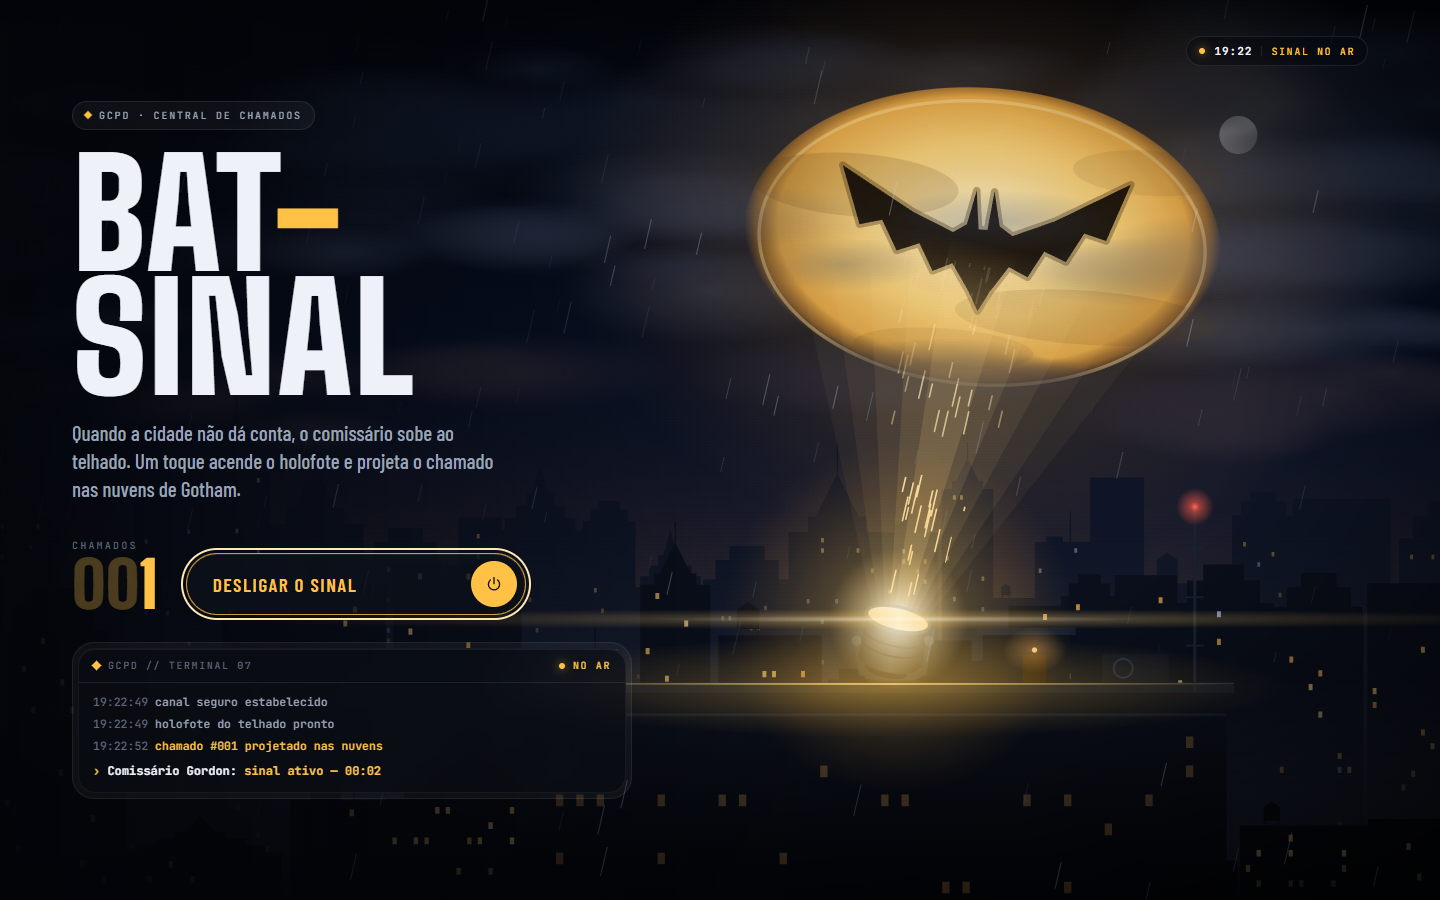
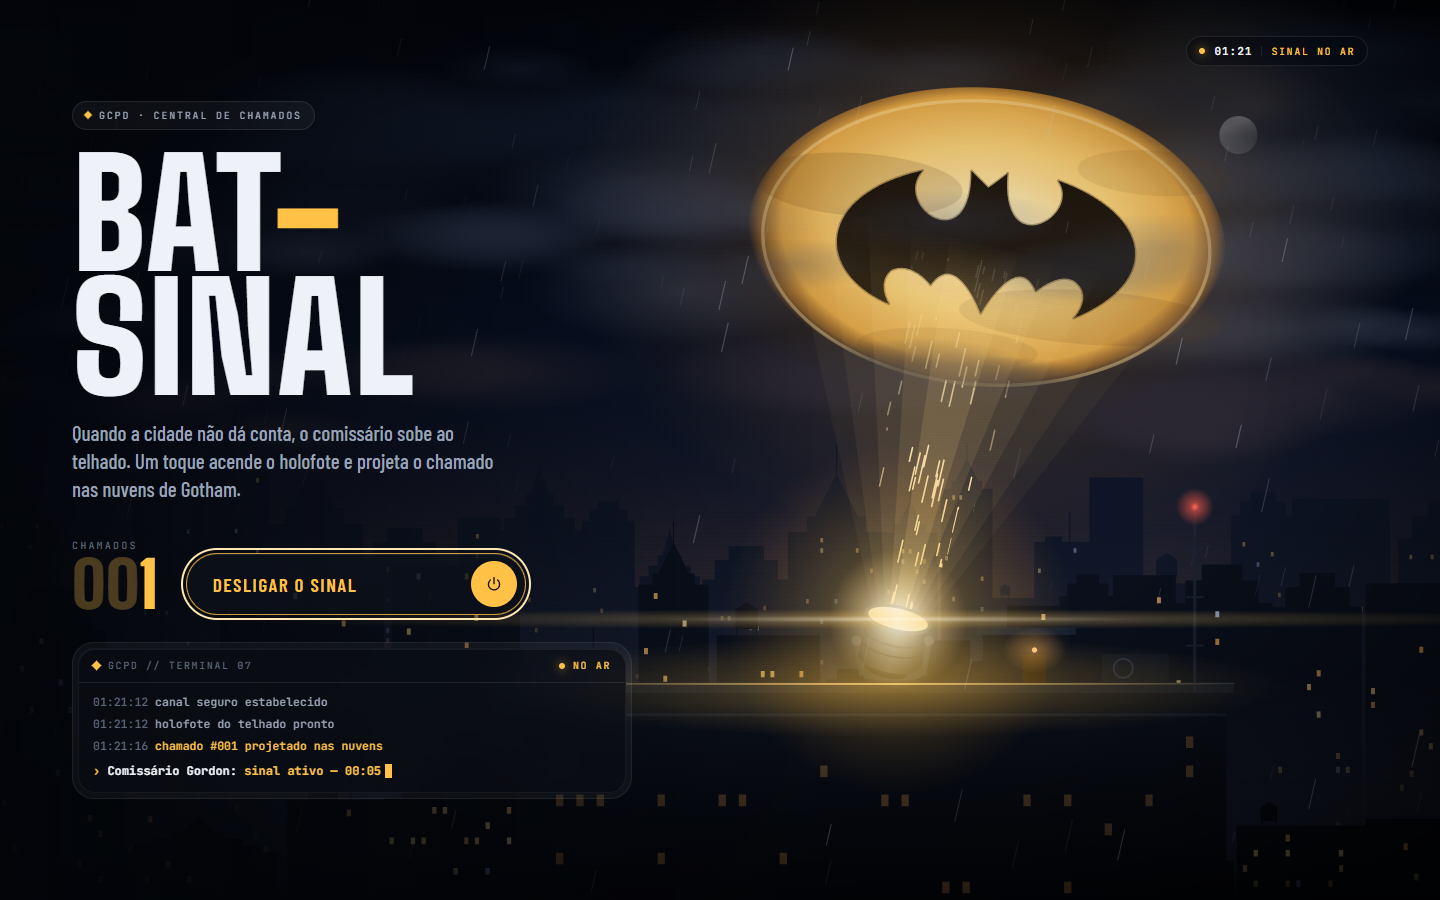
Troca o morcego projetado pelo símbolo clássico do Bat-Sinal

diff --git a/src/components/scene/batSymbol.ts b/src/components/scene/batSymbol.ts
@@ -1,28 +1,13 @@
-const RIGHT_WING: readonly (readonly [number, number])[] = [
-  [100, 43],
-  [103, 43],
-  [106, 17],
-  [111, 40],
-  [120, 46],
-  [148, 34],
-  [197, 6],
-  [183, 45],
-  [168, 41],
-  [157, 61],
-  [142, 55],
-  [132, 73],
-  [119, 67],
-  [107, 85],
-  [100, 98],
-];
+const RAW_PATH =
+  'M30.555 23.53c0 0.062 1.951-2.357 0.39-3.981-1.874-2.124-5.116 1.056-5.116 1.056-2.562-5.059-6.424 3.145-6.424 3.145s-3.348-7.731-6.221-3.047c0.062 0-2.383-2.793-4.819-1.481-1.749 1.749 0 4.091 0 4.091-9.119-3.186-9.712-12.492 2.952-16.286-3.576 4.481 6.59 10.649 5.84-0.344l2.155 1.89c0 0 2.171-1.796 2.171-1.921-0.25 10.993 9.369 4.544 6.121 0.484 11.429 3.308 13.381 11.21 2.951 16.394z';
 
-const LEFT_WING = RIGHT_WING.slice(1, -1)
-  .reverse()
-  .map(([x, y]) => [200 - x, y] as const);
+const SCALE = 5.5974;
+const OFFSET = { x: 1.6483, y: 6.652 };
 
 export const BAT_SYMBOL = {
   width: 200,
-  height: 100,
-  center: { x: 100, y: 52 },
-  path: `M${[...RIGHT_WING, ...LEFT_WING].map(([x, y]) => `${x} ${y}`).join('L')}Z`,
+  height: 95.7,
+  center: { x: 100, y: 47.9 },
+  path: RAW_PATH,
+  transform: `scale(${SCALE}) translate(${-OFFSET.x} ${-OFFSET.y})`,
 };

diff --git a/src/components/scene/Projection.tsx b/src/components/scene/Projection.tsx
@@ -79,8 +79,8 @@ function ProjectionView({ layout, power, animated }: ProjectionProps) {
         {CLOUD_SHADES.map((shade) => (
           <Ellipse key={shade.cx} {...shade} fill="#5A3A14" />
         ))}
-        <G transform={`translate(${batX} ${batY}) scale(${BAT_SCALE})`}>
-          <Path d={BAT_SYMBOL.path} fill="#3A2408" opacity={0.35} stroke="#3A2408" strokeWidth={5} strokeLinejoin="round" />
+        <G transform={`translate(${batX} ${batY}) scale(${BAT_SCALE}) ${BAT_SYMBOL.transform}`}>
+          <Path d={BAT_SYMBOL.path} fill="#3A2408" opacity={0.35} stroke="#3A2408" strokeWidth={0.35} strokeLinejoin="round" />
           <Path d={BAT_SYMBOL.path} fill="#140C04" opacity={0.92} />
         </G>
       </Svg>

diff --git a/README.md b/README.md
@@ -15,7 +15,7 @@ Central de chamados do GCPD em React Native: um toque acende o holofote no telha
 
 - **Gotham à noite, desenhada em código.** Skyline em três camadas com parallax sutil (e reação ao mouse na web), janelas acesas que apagam e voltam, nuvens baixas em movimento, lua encoberta e chuva fina em duas profundidades.
 - **Ignição com estalo.** Ao acionar, o holofote dá um estalo de luz, o feixe volumétrico sobe gaguejando como um arco de carbono e só então o morcego aparece nas nuvens, com halo, tremulação leve e a chuva iluminada dentro do feixe.
-- **Símbolo próprio.** O morcego é um desenho vetorial original, anguloso, feito em SVG para este projeto.
+- **Símbolo clássico.** O morcego projetado segue o contorno clássico do Bat-Sinal, em vetor ([SVG Repo](https://www.svgrepo.com/svg/485626/batman)); Batman é marca da DC Comics e este é um projeto de fã sem fins comerciais.
 - **Terminal da polícia.** Painel no estilo terminal do GCPD com log de eventos e o status ao vivo: `Comissário Gordon: sinal ativo — 00:14`.
 - **Contador de chamados** com animação a cada acionamento e botão para desligar o sinal.
 - **Layouts de verdade para cada tela.** Composição vertical no celular, coluna editorial no desktop e modo compacto para celular deitado.
